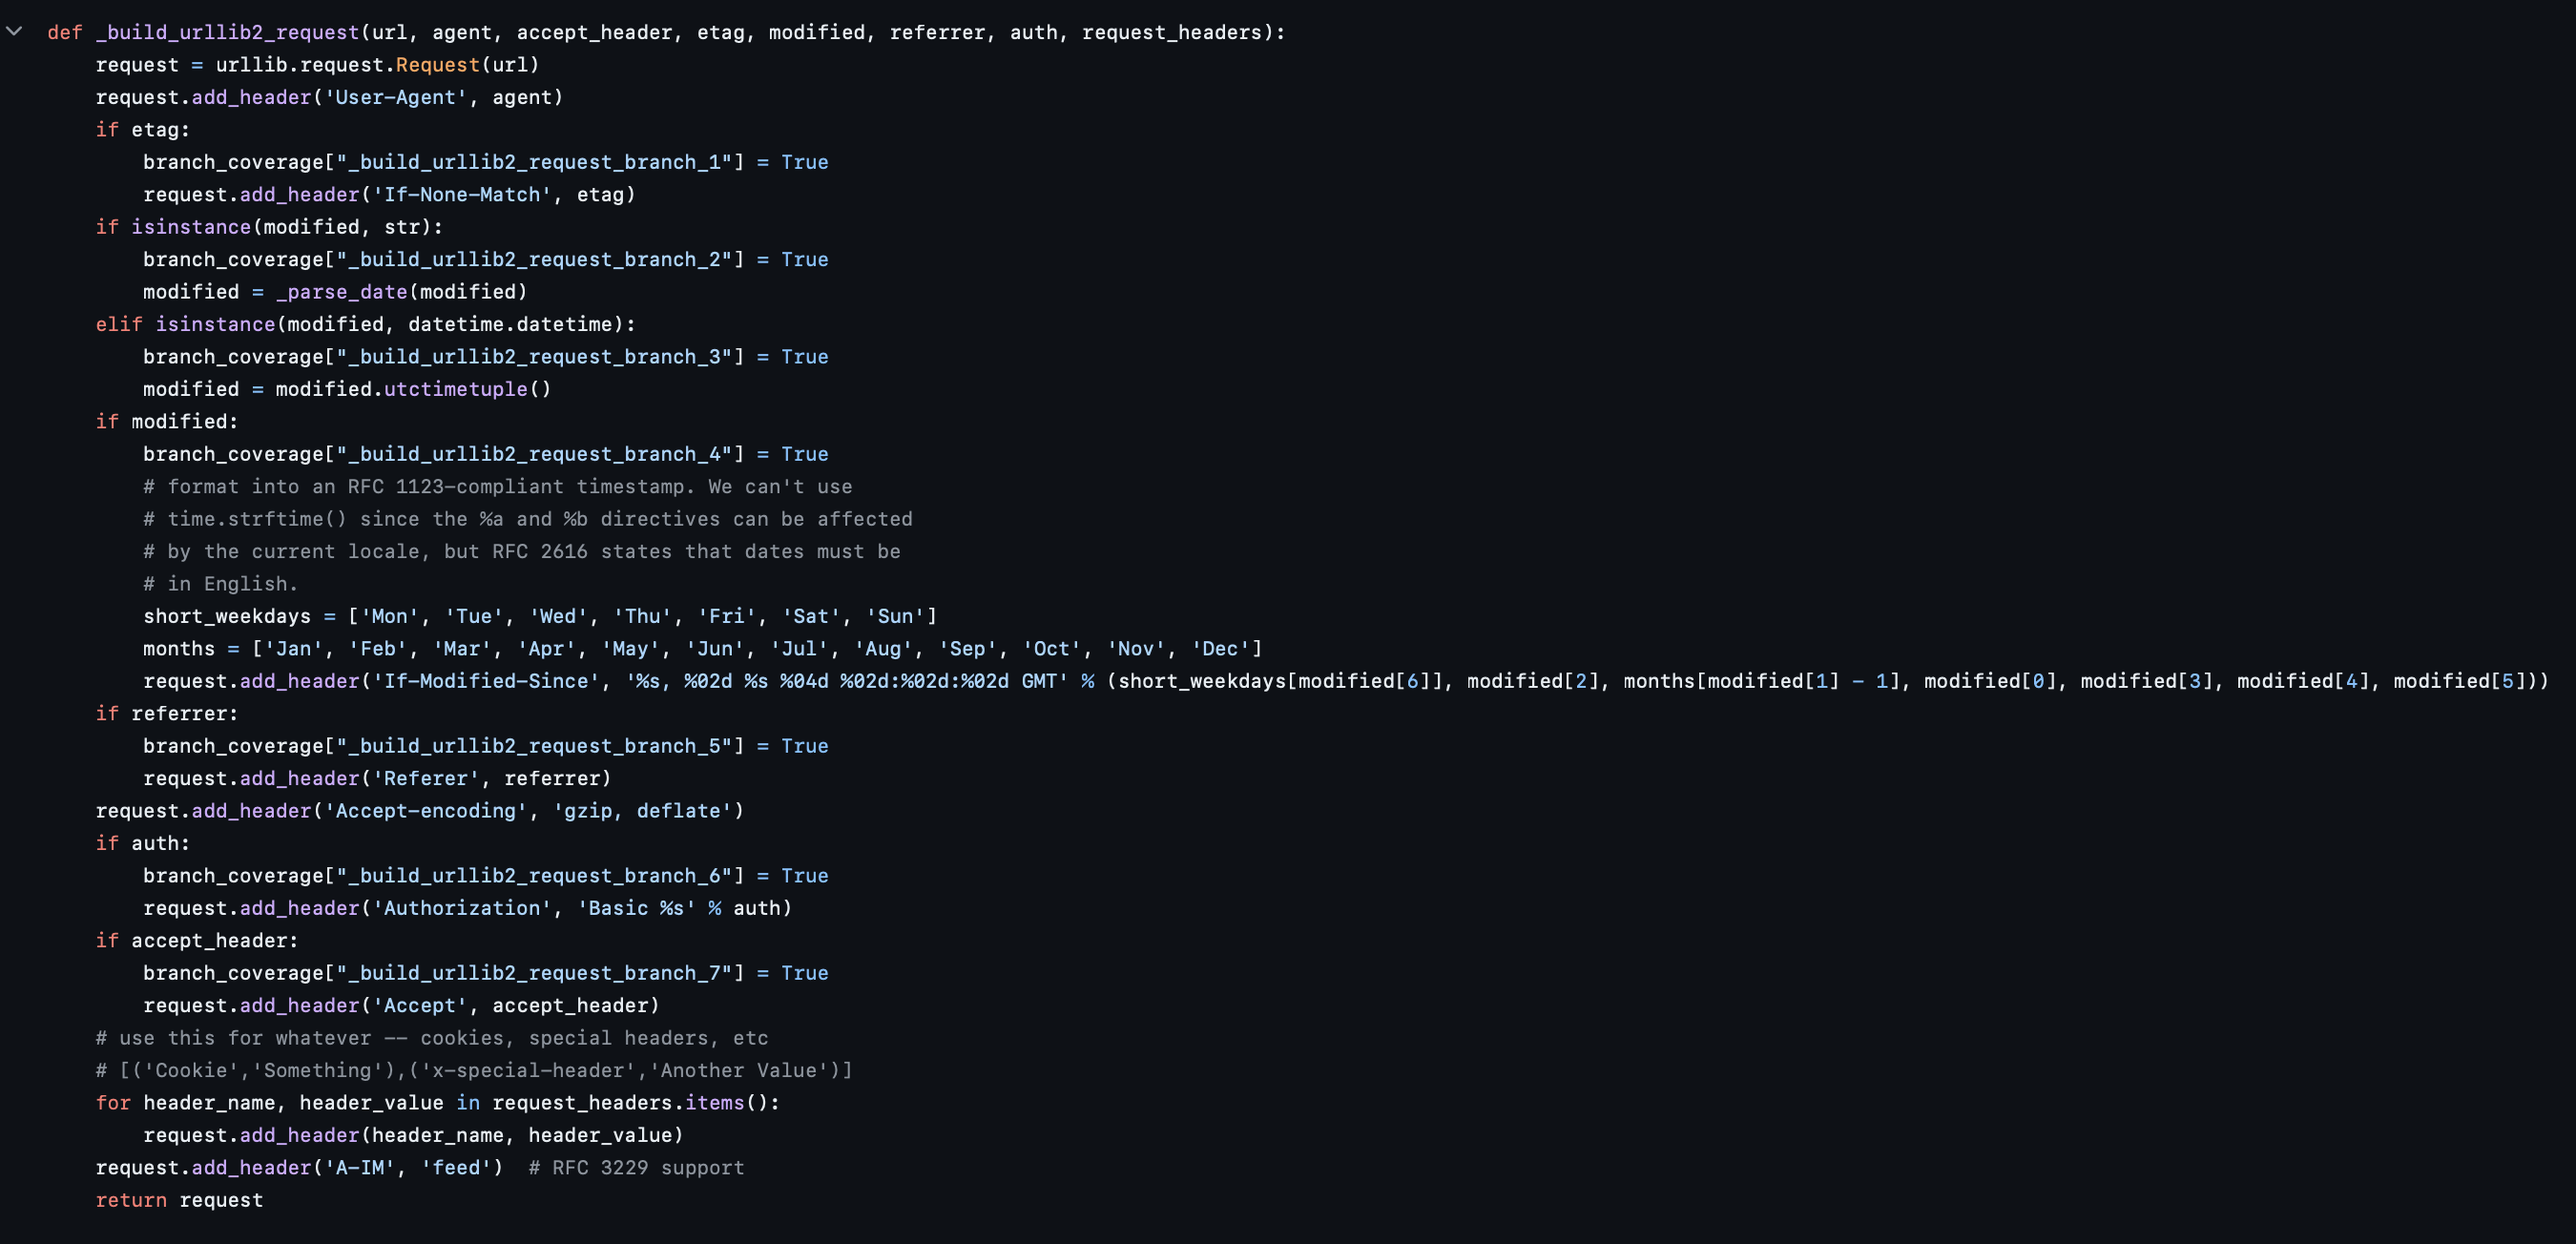
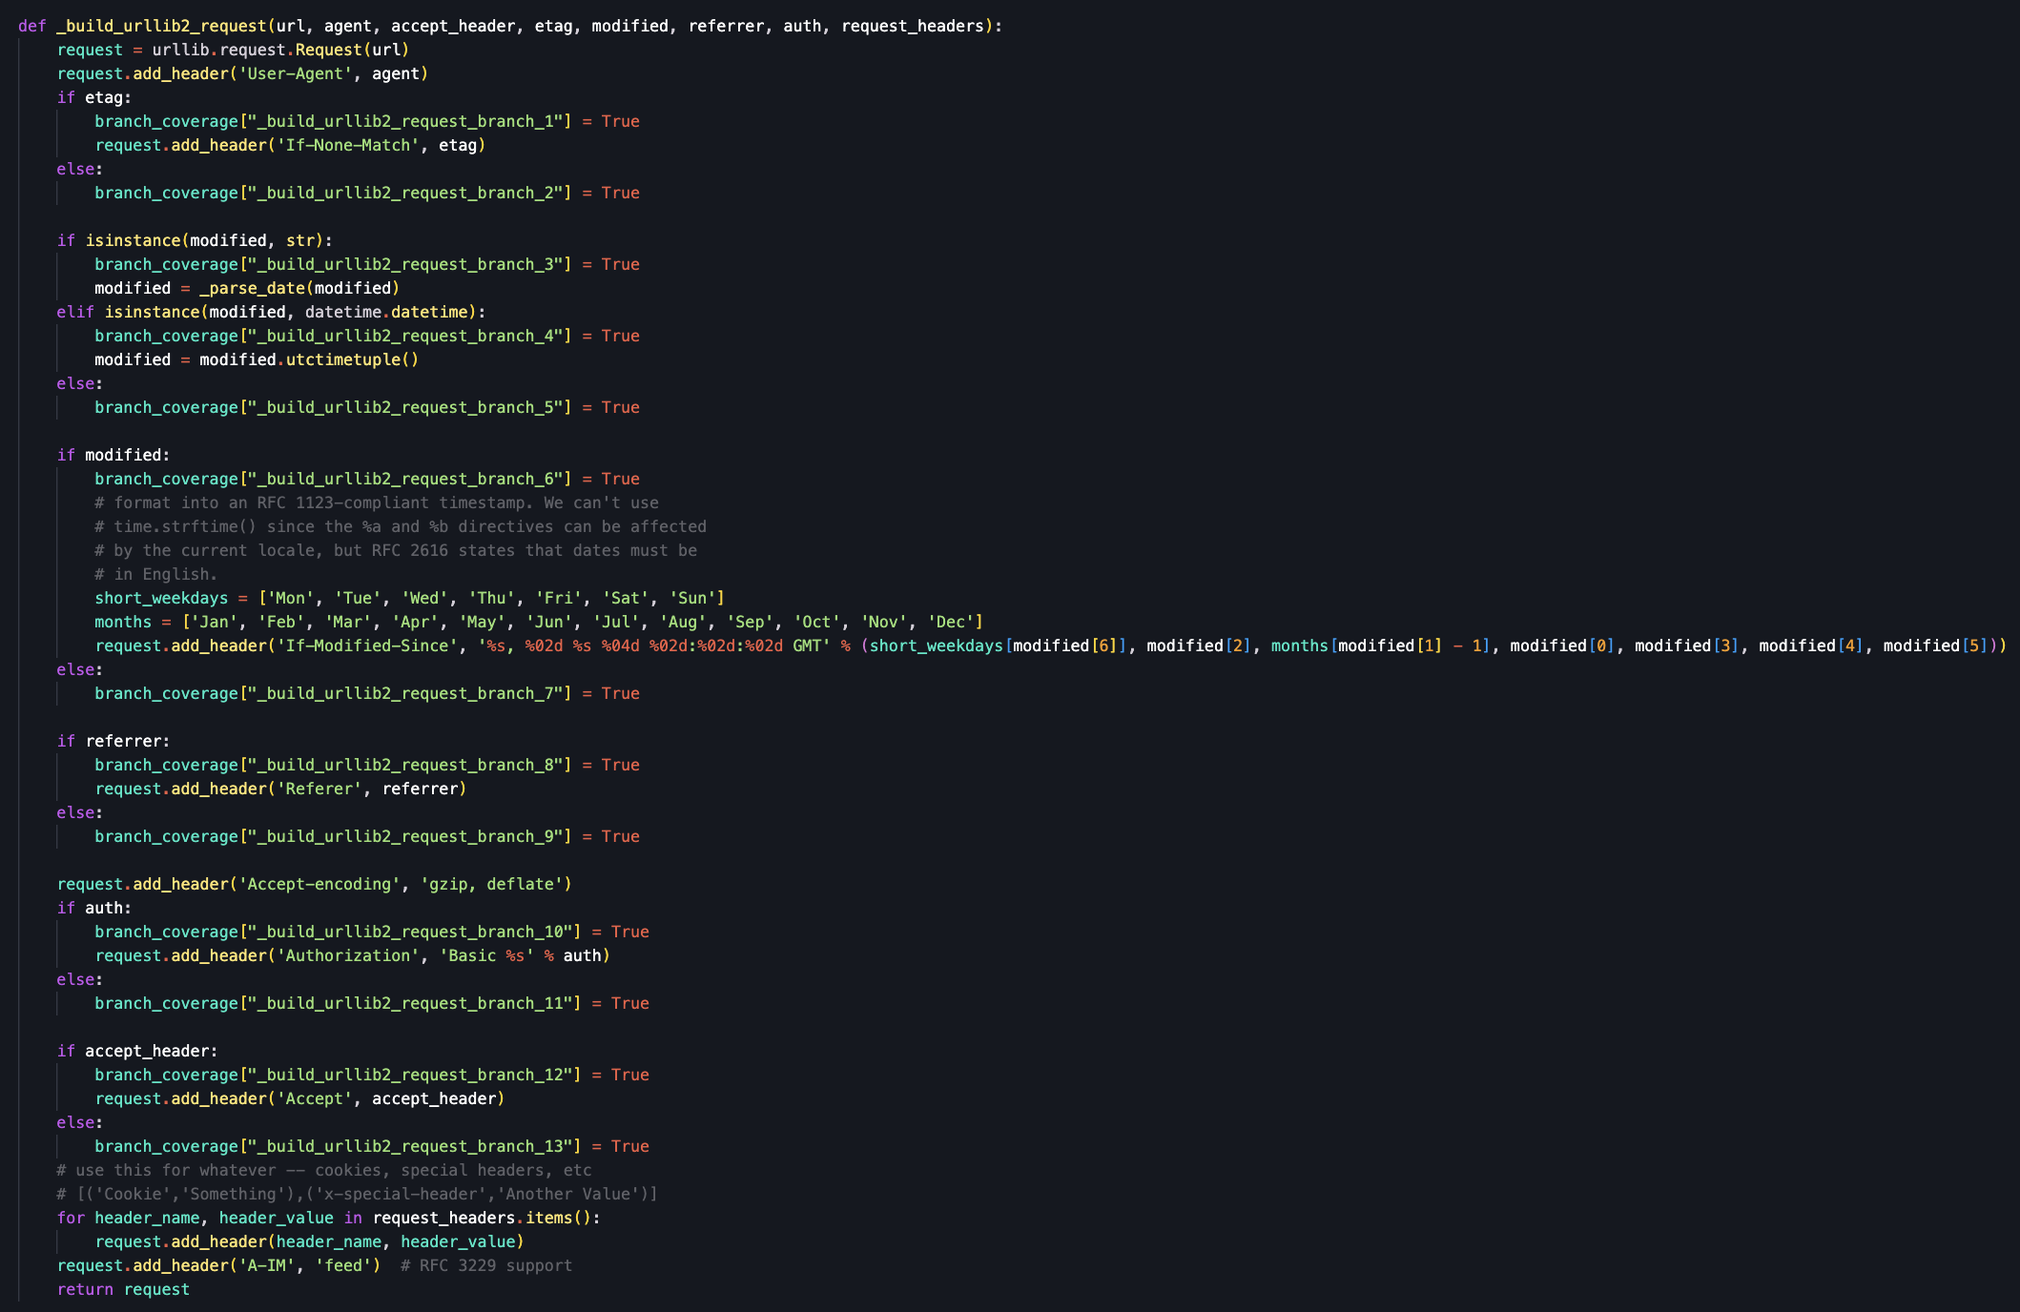
updated the _build fun

Changed region(s): [[0.0, 0.0, 0.7167, 1.0], [0.7479, 0.4908, 0.9972, 0.5521]]

diff --git a/src/reader/_vendor/feedparser/http.py b/src/reader/_vendor/feedparser/http.py
@@ -95,7 +95,13 @@ branch_coverage = {
     "_build_urllib2_request_branch_4" : False,
     "_build_urllib2_request_branch_5" : False,
     "_build_urllib2_request_branch_6" : False,
-    "_build_urllib2_request_branch_7" : False 
+    "_build_urllib2_request_branch_7" : False,
+    "_build_urllib2_request_branch_8" : False,
+    "_build_urllib2_request_branch_9" : False,
+    "_build_urllib2_request_branch_10" : False,
+    "_build_urllib2_request_branch_11" : False,
+    "_build_urllib2_request_branch_12" : False,
+    "_build_urllib2_request_branch_13" : False
 }
 
 def print_coverage__build():
@@ -112,14 +118,20 @@ def _build_urllib2_request(url, agent, accept_header, etag, modified, referrer, 
     if etag:
         branch_coverage["_build_urllib2_request_branch_1"] = True
         request.add_header('If-None-Match', etag)
-    if isinstance(modified, str):
+    else:
         branch_coverage["_build_urllib2_request_branch_2"] = True
+
+    if isinstance(modified, str):
+        branch_coverage["_build_urllib2_request_branch_3"] = True
         modified = _parse_date(modified)
     elif isinstance(modified, datetime.datetime):
-        branch_coverage["_build_urllib2_request_branch_3"] = True
-        modified = modified.utctimetuple()
-    if modified:
         branch_coverage["_build_urllib2_request_branch_4"] = True
+        modified = modified.utctimetuple()
+    else:
+        branch_coverage["_build_urllib2_request_branch_5"] = True
+
+    if modified:
+        branch_coverage["_build_urllib2_request_branch_6"] = True
         # format into an RFC 1123-compliant timestamp. We can't use
         # time.strftime() since the %a and %b directives can be affected
         # by the current locale, but RFC 2616 states that dates must be
@@ -127,16 +139,27 @@ def _build_urllib2_request(url, agent, accept_header, etag, modified, referrer, 
         short_weekdays = ['Mon', 'Tue', 'Wed', 'Thu', 'Fri', 'Sat', 'Sun']
         months = ['Jan', 'Feb', 'Mar', 'Apr', 'May', 'Jun', 'Jul', 'Aug', 'Sep', 'Oct', 'Nov', 'Dec']
         request.add_header('If-Modified-Since', '%s, %02d %s %04d %02d:%02d:%02d GMT' % (short_weekdays[modified[6]], modified[2], months[modified[1] - 1], modified[0], modified[3], modified[4], modified[5]))
+    else:
+        branch_coverage["_build_urllib2_request_branch_7"] = True
+
     if referrer:
-        branch_coverage["_build_urllib2_request_branch_5"] = True
+        branch_coverage["_build_urllib2_request_branch_8"] = True
         request.add_header('Referer', referrer)
+    else:
+        branch_coverage["_build_urllib2_request_branch_9"] = True
+
     request.add_header('Accept-encoding', 'gzip, deflate')
     if auth:
-        branch_coverage["_build_urllib2_request_branch_6"] = True
+        branch_coverage["_build_urllib2_request_branch_10"] = True
         request.add_header('Authorization', 'Basic %s' % auth)
+    else:
+        branch_coverage["_build_urllib2_request_branch_11"] = True
+
     if accept_header:
-        branch_coverage["_build_urllib2_request_branch_7"] = True
+        branch_coverage["_build_urllib2_request_branch_12"] = True
         request.add_header('Accept', accept_header)
+    else:
+        branch_coverage["_build_urllib2_request_branch_13"] = True    
     # use this for whatever -- cookies, special headers, etc
     # [('Cookie','Something'),('x-special-header','Another Value')]
     for header_name, header_value in request_headers.items():
